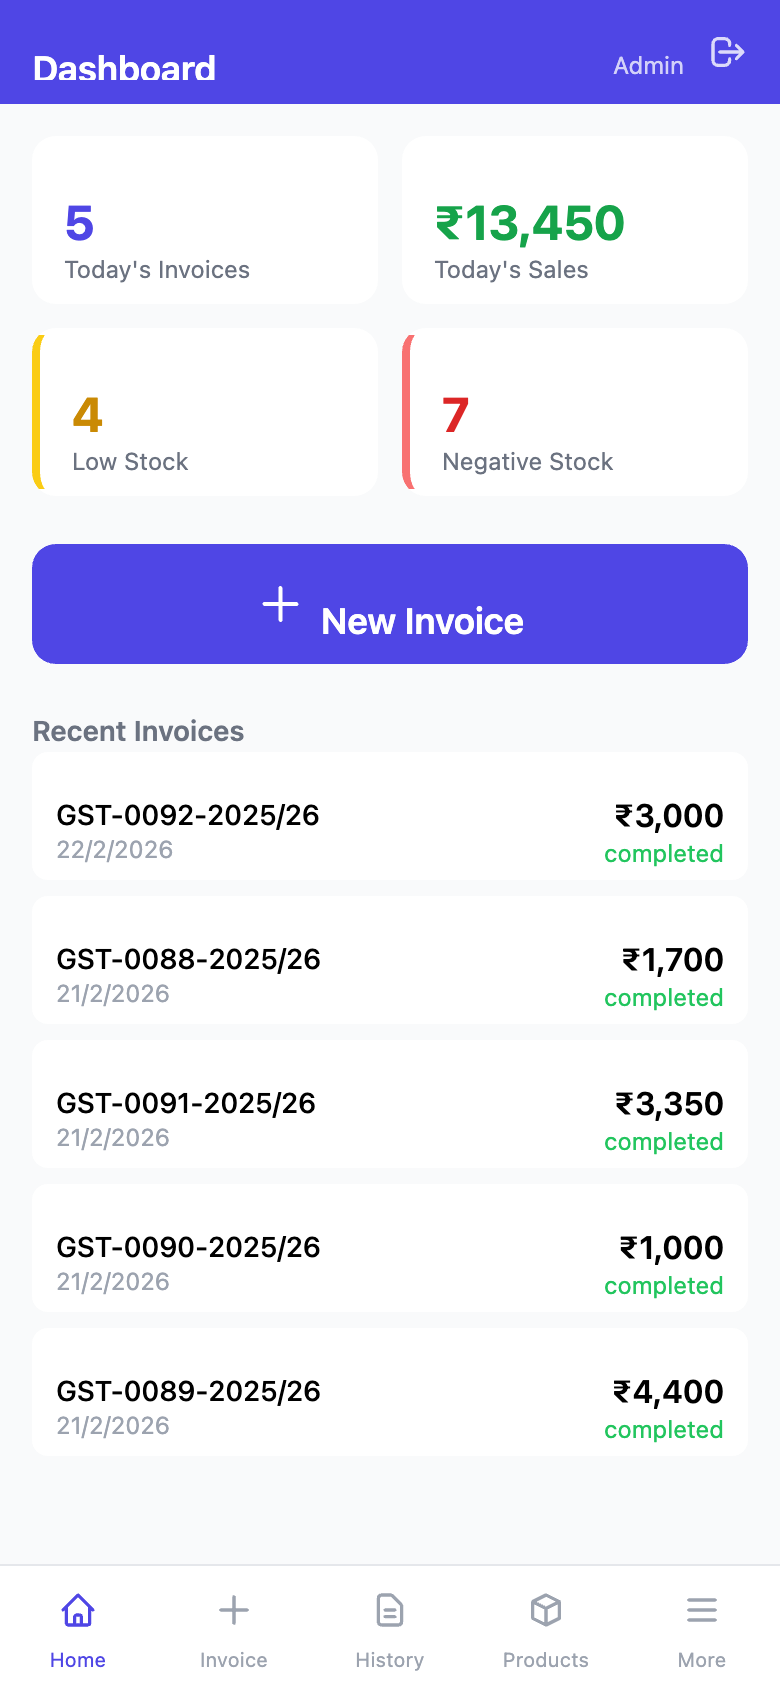
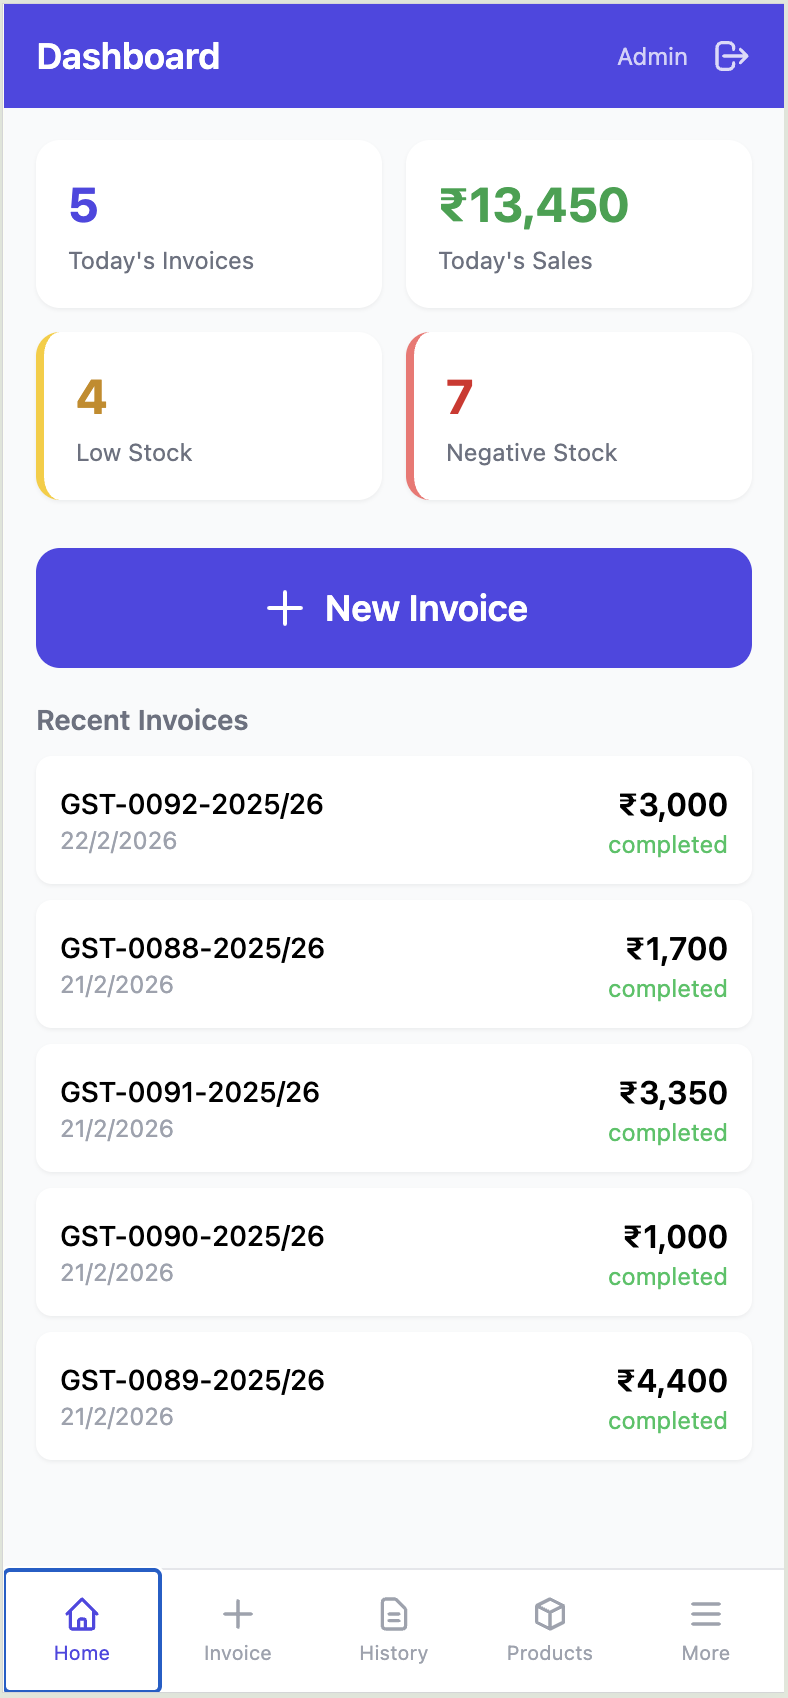
Update screenshots with native mobile captures
Replace html2canvas screenshots with proper device captures.
Add More page screenshot showing admin features.

diff --git a/README.md b/README.md
@@ -3,14 +3,15 @@
 A mobile-first POS and inventory management PWA — GST-compliant billing, product catalog, and stock tracking built for Indian retail shops.
 
 <p align="center">
-  <img src="docs/screenshots/dashboard.png" width="220" alt="Dashboard" />
-  <img src="docs/screenshots/new-invoice.png" width="220" alt="New Invoice" />
-  <img src="docs/screenshots/invoice-view.png" width="220" alt="Invoice View" />
-  <img src="docs/screenshots/products.png" width="220" alt="Products" />
+  <img src="docs/screenshots/dashboard.png" width="180" alt="Dashboard" />
+  <img src="docs/screenshots/new-invoice.png" width="180" alt="New Invoice" />
+  <img src="docs/screenshots/invoice-view.png" width="180" alt="Invoice View" />
+  <img src="docs/screenshots/products.png" width="180" alt="Products" />
+  <img src="docs/screenshots/more.png" width="180" alt="More" />
 </p>
 
 <p align="center">
-  <img src="docs/screenshots/whatsapp-share.jpg" width="280" alt="WhatsApp Invoice Share" />
+  <img src="docs/screenshots/whatsapp-share.jpg" width="250" alt="WhatsApp Invoice Share" />
   <br />
   <em>Invoice shared via WhatsApp</em>
 </p>
